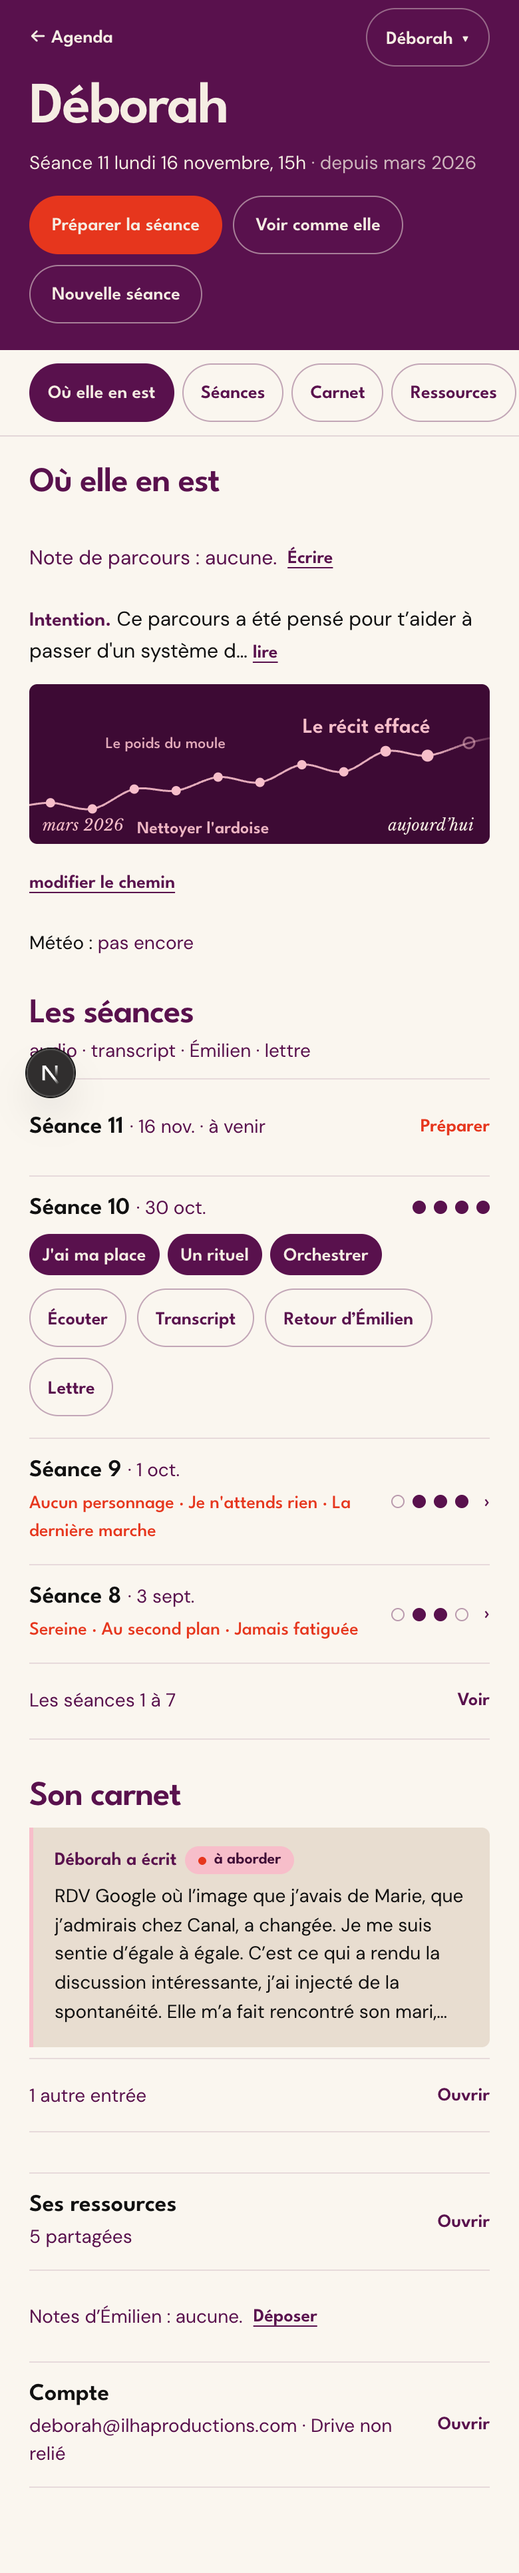
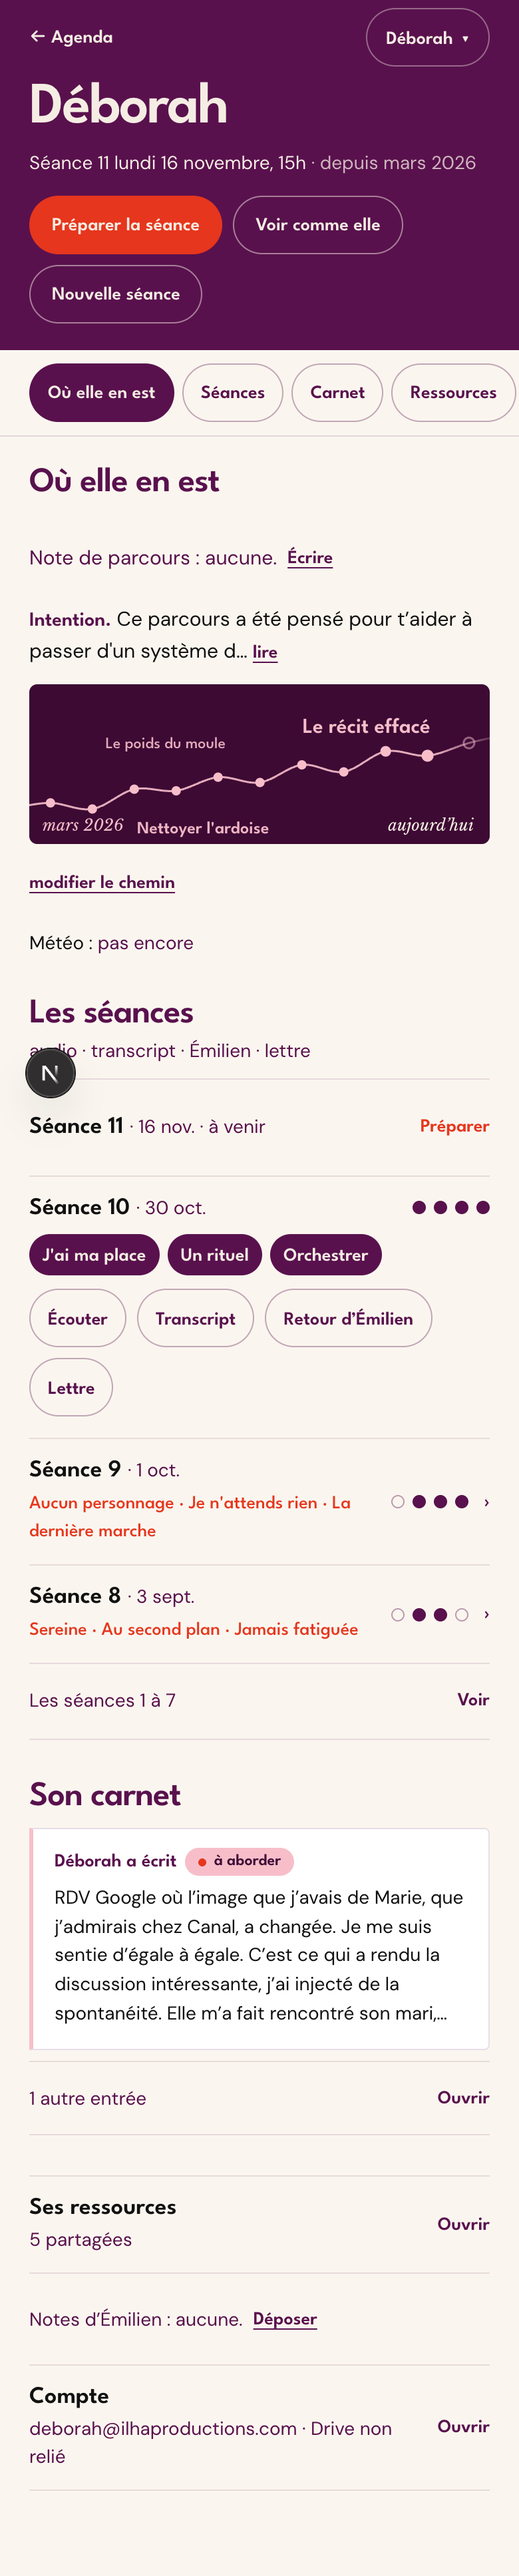
Couleur des blocs : cartes blanches bordées, beige réservé aux petits éléments (règle 0b)
Jetons --carte et --carte-filet, classe carte-blanche. Voix de la cliente, préparation,
lettre, transcript, météos, ressources, note de parcours, zones d'écriture, champs longs,
volet de sources, cartes de l'espace cliente et emails passent en blanc avec un filet,
sans ombre. Seuls aplats : retour d'Émilien et compteur du carnet. Captures refaites.

diff --git a/src/app/(coach)/coach/clientes/[id]/seances/[seanceId]/avant/page.tsx b/src/app/(coach)/coach/clientes/[id]/seances/[seanceId]/avant/page.tsx
@@ -188,7 +188,7 @@ export default async function AvantLaSeance({ params }: PageProps<"/coach/client
             {actions("hidden lg:flex")}
 
             {estCoach ? (
-              <section id="prepa" className="ancre carte bg-beige lg:sticky lg:top-5" style={place(0, [1, 2], "2 / 6")}>
+              <section id="prepa" className="ancre carte carte-papier lg:sticky lg:top-5" style={place(0, [1, 2], "2 / 6")}>
                 <div aria-hidden className="h-1 bg-rouge" />
                 <div className="px-[18px] pb-5 pt-4">
                   <Preparation seanceId={seance.id} initial={preparation} date={preparationModifiee ? jourEtMois(preparationModifiee) : null} />
@@ -232,7 +232,7 @@ export default async function AvantLaSeance({ params }: PageProps<"/coach/client
                             {i + 1}. {titrePropre(e.titre)}
                           </span>
                           {notes.length ? (
-                            <span className="rounded-r-[6px] border-l-[3px] border-rose bg-beige px-2.5 py-2 text-[15px] leading-[1.5]">{extrait(notes[0].contenu, 120)}</span>
+                            <span className="rounded-r-[6px] border-l-[3px] border-rose bg-beige px-2.5 py-2 text-[15px] leading-[1.5]"><span className="line-clamp-2">{extrait(notes[0].contenu, 110)}</span></span>
                           ) : (
                             <span className="text-[14px] text-violet/85">rien écrit</span>
                           )}
@@ -245,7 +245,7 @@ export default async function AvantLaSeance({ params }: PageProps<"/coach/client
                       <span aria-hidden className="mt-1 size-3 shrink-0 rounded-full border-[1.5px] border-rouge bg-rose" />
                       <div className="flex min-w-0 flex-1 flex-col gap-1.5">
                         <span className="font-titre text-[17px] font-semibold leading-[1.1]">En fin de lettre</span>
-                        <span className="rounded-r-[6px] border-l-[3px] border-rose bg-beige px-2.5 py-2 text-[15px] leading-[1.5]">{extrait(carnet.finDeLettre[0].contenu, 120)}</span>
+                        <span className="line-clamp-2 rounded-r-[6px] border-l-[3px] border-rose bg-beige px-2.5 py-2 text-[15px] leading-[1.5]">{extrait(carnet.finDeLettre[0].contenu, 120)}</span>
                       </div>
                     </li>
                   ) : null}
@@ -356,7 +356,7 @@ export default async function AvantLaSeance({ params }: PageProps<"/coach/client
             </section>
 
             {precedente ? (
-              <section id="transcript" className="ancre carte gap-3 bg-beige px-4 pb-3 pt-3.5" style={place(o, lettre ? [7, 13] : [7, 13], lettre ? "4" : "3")}>
+              <section id="transcript" className="ancre carte carte-papier gap-3 px-4 pb-3 pt-3.5" style={place(o, lettre ? [7, 13] : [7, 13], lettre ? "4" : "3")}>
                 <div className="flex items-baseline justify-between gap-3">
                   <h2 className="surtitre m-0 text-violet">Séance {precedente.numero} · le transcript</h2>
                   <span className="shrink-0 text-[14px] text-violet">{[dateReelle(precedente.date) && jourEtMoisCourt(precedente.date!), duree(precedente.audio_duree_sec)].filter(Boolean).join(" · ")}</span>

diff --git a/src/app/globals.css b/src/app/globals.css
@@ -13,6 +13,13 @@
   --rose: #f7beca; /* les touches sur violet */
   --encre: #111111;
 
+  /* Blocs (chantier fluidité, règle 0b) : le fond de page est le papier ; toute carte de lecture
+     ou d'écriture est blanche, bordée d'un filet, sans ombre. Le beige reste aux petits éléments
+     (« Pourquoi ça compte », bandeau d'une ligne, petit lecteur, pastilles, extraits courts).
+     Seuls aplats colorés : le retour d'Émilien (violet nuit) et le compteur du carnet (rose). */
+  --carte: #ffffff;
+  --carte-filet: rgb(89 17 77 / 0.14);
+
   /* Filets */
   --filet-violet: rgb(245 237 227 / 0.2);
   --filet-calendrier: rgb(245 237 227 / 0.35);
@@ -40,6 +47,8 @@
   --color-rouge: var(--rouge);
   --color-rose: var(--rose);
   --color-encre: var(--encre);
+  --color-carte: var(--carte);
+  --color-carte-filet: var(--carte-filet);
   --font-sans: "DM Sans Variable", system-ui, sans-serif;
   --font-titre: "League Spartan Variable", system-ui, sans-serif;
   --font-italique: "Libre Baskerville", Georgia, serif;
@@ -71,6 +80,17 @@ button {
 
 .papier-page {
   border-radius: 0;
+}
+
+/* La carte de lecture ou d'écriture : blanche, un filet, sans ombre.
+   Dans la couche « components » : un filet de couleur (border-l-rose…) passe devant. */
+@layer components {
+  .carte-blanche {
+    background-color: var(--carte);
+    border: 1px solid var(--carte-filet);
+    border-radius: var(--rayon-papier);
+    color: var(--encre);
+  }
 }
 
 /* ---------------- Typographie ---------------- */
@@ -382,7 +402,8 @@ button {
 }
 .champ-zone {
   width: 100%;
-  background: var(--beige);
+  background: var(--carte);
+  border: 1px solid var(--carte-filet);
   border-radius: 6px;
   outline: none;
   font-size: 16px;
@@ -502,14 +523,13 @@ details > summary::-webkit-details-marker {
   flex-direction: column;
   gap: 6px;
   padding: 12px 14px;
-  border: 1px solid rgb(89 17 77 / 0.18);
+  border: 1px solid var(--carte-filet);
   border-radius: 6px;
-  background: var(--papier);
+  background: var(--carte);
 }
 .objet-prive {
-  --fond-lisible: var(--beige);
-  border-color: transparent;
-  background: var(--beige);
+  border-color: var(--carte-filet);
+  background: var(--carte);
 }
 .provenance {
   align-self: flex-start;
@@ -597,8 +617,8 @@ details > summary::-webkit-details-marker {
   border-radius: 10px;
 }
 .carte-papier {
-  border: 1px solid rgb(89 17 77 / 0.22);
-  background: var(--papier);
+  border: 1px solid var(--carte-filet);
+  background: var(--carte);
 }
 .aller {
   display: inline-flex;

diff --git a/src/components/espace/GesteEcrire.tsx b/src/components/espace/GesteEcrire.tsx
@@ -86,7 +86,7 @@ export function GesteEcrire({
         placeholder={placeholder}
         aria-label="Écrire dans ton carnet"
         rows={4}
-        className={`w-full resize-y text-[16px] leading-[1.6] text-encre outline-none placeholder:text-encre/45 ${surPapier ? "min-h-[120px] bg-transparent" : "min-h-[90px] rounded-[var(--rayon-papier)] bg-papier-creux p-3.5"}`}
+        className={`w-full resize-y text-[16px] leading-[1.6] text-encre outline-none placeholder:text-encre/45 ${surPapier ? "min-h-[120px] bg-transparent" : "min-h-[90px] rounded-[var(--rayon-papier)] border border-carte-filet bg-carte p-3.5"}`}
       />
       {erreur ? (
         <p role="alert" className="text-[14px] text-rouge">
@@ -108,7 +108,7 @@ export function GesteEcrire({
 
   const feuille = ouvert ? (
     surPapier ? (
-      <div className="flex flex-col gap-1.5 rounded-[var(--rayon-papier)] bg-papier-creux px-[18px] py-4 text-encre">{zone}</div>
+      <div className="carte-blanche flex flex-col gap-1.5 px-[18px] py-4">{zone}</div>
     ) : (
       <Papier className="flex flex-col gap-2 p-[18px]">{zone}</Papier>
     )
@@ -116,7 +116,7 @@ export function GesteEcrire({
 
   if (note && !ouvert) {
     return (
-      <div className="flex flex-col gap-1.5 rounded-[var(--rayon-papier)] bg-papier-creux px-[18px] py-4 text-encre">
+      <div className="carte-blanche flex flex-col gap-1.5 rounded-l-none border-l-[3px] border-l-rose px-[18px] py-4">
         <div className="flex items-baseline justify-between gap-3">
           {avantOuverture(note.date) ? <span /> : <span className="font-italique text-[14px] italic text-violet">{jourEtMois(note.date)}</span>}
           <button type="button" onClick={ouvrir} className="geste-etendu relative text-[14px] text-violet underline">

diff --git a/src/components/coach/VueEquipe.tsx b/src/components/coach/VueEquipe.tsx
@@ -23,17 +23,17 @@ export function NoteParcours({ parcoursId, texte, signature }: { parcoursId: str
   }
   if (edition || !texte.trim()) {
     return (
-      <div className="rounded-[6px] bg-beige px-4 py-3.5">
+      <div className="carte-blanche px-4 py-3.5">
         <FormAction action={enregistrerNoteEquipe} bouton="Enregistrer">
           <input type="hidden" name="parcours_id" value={parcoursId} />
-          <textarea name="note" aria-label="Note de parcours" defaultValue={texte} placeholder="Où elle en est, en quelques lignes, pour Cloé et Émilien." className="champ-zone min-h-[120px] bg-papier" />
+          <textarea name="note" aria-label="Note de parcours" defaultValue={texte} placeholder="Où elle en est, en quelques lignes, pour Cloé et Émilien." className="champ-zone min-h-[120px]" />
           <span className="font-italique text-[14px] italic text-violet">jamais visible par elle</span>
         </FormAction>
       </div>
     );
   }
   return (
-    <div className="flex flex-col gap-2 rounded-[6px] bg-beige px-4 py-3.5">
+    <div className="carte-blanche flex flex-col gap-2 px-4 py-3.5">
       <TexteLecture>{texteStructure(texte)}</TexteLecture>
       <div className="flex items-baseline justify-between gap-3">
         <span className="font-italique text-[14px] italic text-violet">{signature ? `${signature} · ` : ""}jamais visible par elle</span>

diff --git a/src/components/coach/EditeurLettre.tsx b/src/components/coach/EditeurLettre.tsx
@@ -142,9 +142,9 @@ export function EditeurLettre({
           ) : null}
 
           {envoyee ? (
-            <div className="flex flex-col gap-2.5 rounded-[6px] bg-beige px-[18px] py-4">
+            <div className="carte-blanche flex flex-col gap-2.5 px-[18px] py-4">
               <p className="font-titre text-[18px] font-semibold text-violet">Envoyée. Préviens-la sur WhatsApp.</p>
-              <p className="papier px-3.5 py-3 text-[15px] leading-[1.5]">{whatsapp}</p>
+              <p className="rounded-[6px] border border-carte-filet px-3.5 py-3 text-[15px] leading-[1.5]">{whatsapp}</p>
               <div className="flex gap-[18px]">
                 <button
                   type="button"
@@ -189,7 +189,7 @@ export function EditeurLettre({
             ))}
           </div>
           {courante ? (
-            <div className="flex max-h-[220px] flex-col gap-1.5 overflow-y-auto rounded-[6px] bg-beige px-4 py-3.5 md:max-h-[70vh]">
+            <div className="carte-blanche flex max-h-[220px] flex-col gap-1.5 overflow-y-auto px-4 py-3.5 md:max-h-[70vh]">
               <p className="font-italique text-[14px] italic text-violet">{courante.titre}</p>
               <p className="whitespace-pre-line text-[14px] leading-[1.5]">{courante.texte}</p>
             </div>

diff --git a/src/emails/commun.tsx b/src/emails/commun.tsx
@@ -6,10 +6,10 @@ export function Enveloppe({ apercu, children }: { apercu: string; children: Reac
   return (
     <Html lang="fr">
       <Head />
-      <Body style={{ margin: 0, backgroundColor: "#E8DDD0", fontFamily: "Helvetica, Arial, sans-serif" }}>
+      <Body style={{ margin: 0, backgroundColor: "#FAF6EF", fontFamily: "Helvetica, Arial, sans-serif" }}>
         <div style={{ display: "none", maxHeight: 0, overflow: "hidden" }}>{apercu}</div>
         <Container style={{ maxWidth: 480, padding: "18px 12px 30px" }}>
-          <Section style={{ backgroundColor: "#FAF6EF", borderRadius: 4, padding: "30px 26px 34px" }}>
+          <Section style={{ backgroundColor: "#FFFFFF", border: "1px solid rgba(89,17,77,.14)", borderRadius: 4, padding: "30px 26px 34px" }}>
             <Img src={`${SITE}/marque/logo-violet.png`} alt="Blocages & Intuition" height="36" />
             {children}
           </Section>

diff --git a/src/components/coach/VoixCliente.tsx b/src/components/coach/VoixCliente.tsx
@@ -4,7 +4,7 @@ import { Marque } from "@/components/coach/base";
 // « Déborah a écrit » et la date en tête, texte droit). Jamais confondue avec Cloé ni Émilien.
 export function VoixCliente({ prenom, date, texte, aAborder = false, compact = false, nouveau = false }: { prenom: string; date: string | null; texte: string; aAborder?: boolean; compact?: boolean; nouveau?: boolean }) {
   return (
-    <div className="voix-cliente flex flex-col gap-1.5 rounded-r-[6px] border-l-[3px] border-rose bg-beige px-4 pb-4 pt-3.5">
+    <div className="voix-cliente flex flex-col gap-1.5 carte-blanche rounded-l-none border-l-[3px] border-l-rose px-4 pb-4 pt-3.5">
       <p className="m-0 flex flex-wrap items-baseline gap-x-1.5 font-titre text-[14px] font-semibold text-violet">
         <span>{prenom} a écrit</span>
         {date ? <span className="font-sans font-normal opacity-85">· {date}</span> : null}

diff --git a/src/components/coach/Preparation.tsx b/src/components/coach/Preparation.tsx
@@ -58,7 +58,7 @@ export function Preparation({ seanceId, initial, date }: { seanceId: string; ini
           {/* Téléphone : le début, puis « Lire en entier » dans la liseuse. Ordinateur : la colonne défile. */}
           <div className="relative max-h-[22rem] overflow-hidden lg:max-h-[calc(100vh-190px)] lg:overflow-y-auto">
             <TexteLecture className="text-[16px]">{texte}</TexteLecture>
-            <div aria-hidden className="pointer-events-none absolute inset-x-0 bottom-0 h-20 bg-gradient-to-t from-beige to-transparent lg:hidden" />
+            <div aria-hidden className="pointer-events-none absolute inset-x-0 bottom-0 h-20 bg-gradient-to-t from-carte to-transparent lg:hidden" />
           </div>
           {texte === initial ? (
             <OuvrirLecture cle="prepa" className="self-start text-violet lg:hidden">

diff --git a/src/components/coach/MotsStation.tsx b/src/components/coach/MotsStation.tsx
@@ -13,7 +13,7 @@ export function MotsStation({ id, valides, station, proposes, stationProposee, p
   const aPropos = mots.length > 0 || Boolean(nom);
 
   return (
-    <div className={`mt-2.5 flex flex-col gap-2.5 border-l-[3px] bg-beige px-4 py-3.5 ${estValide ? "border-violet" : "border-rouge"}`}>
+    <div className={`carte-blanche mt-2.5 flex flex-col gap-2.5 rounded-l-none border-l-[3px] px-4 py-3.5 ${estValide ? "border-l-violet" : "border-l-rouge"}`}>
       <p className={`font-titre text-[14px] font-semibold ${estValide ? "text-violet" : "text-rouge"}`}>{estValide ? `Validé · sur le chemin de ${prenom}` : aPropos ? "Proposé après lecture du transcript" : "Les mots et la station"}</p>
       {modif || !aPropos ? (
         <FormAction action={validerMots} bouton="Valider" rouge>

diff --git a/src/app/(coach)/coach/clientes/[id]/dater/page.tsx b/src/app/(coach)/coach/clientes/[id]/dater/page.tsx
@@ -73,7 +73,7 @@ export default async function DaterEtNommer({ params, searchParams }: PageProps<
           <h1 className="m-0 font-titre text-[34px] font-semibold leading-none tracking-[-0.03em] text-violet">Séance {s.numero}</h1>
           {q.erreur ? <p className="m-0 text-[15px] text-rouge">Ça n’a pas été enregistré. Réessaie dans un instant.</p> : null}
           {souvenir || transcript ? (
-            <div className="flex flex-col gap-1 rounded-[6px] bg-beige px-3.5 py-3">
+            <div className="carte-blanche flex flex-col gap-1 px-3.5 py-3">
               {souvenir ? (
                 <p className="m-0 text-[15px] leading-[1.55]">
                   <span className="font-titre font-semibold text-violet">Pour te souvenir. </span>

diff --git a/src/app/(cliente)/espace/lettre/[id]/page.tsx b/src/app/(cliente)/espace/lettre/[id]/page.tsx
@@ -56,7 +56,7 @@ export default async function PageLettre({ params }: PageProps<"/espace/lettre/[
 
         {sommaire.length ? (
           <>
-            <nav aria-label="Les exercices de la lettre" className="mt-7 rounded-[8px] bg-papier-creux px-4 py-1.5 md:mt-[30px] md:px-[18px]">
+            <nav aria-label="Les exercices de la lettre" className="carte-blanche mt-7 px-4 py-1.5 md:mt-[30px] md:px-[18px]">
               {sommaire.map((x, i) => (
                 <a key={x.slug} href={`#ex-${i + 1}`} className={`flex min-h-[48px] items-center justify-between gap-3 font-titre text-[17px] font-semibold text-encre md:text-[18px] ${i < sommaire.length - 1 ? "border-b border-[var(--filet-papier)]" : ""}`}>
                   <span>

diff --git a/src/components/coach/Bibliotheque.tsx b/src/components/coach/Bibliotheque.tsx
@@ -63,7 +63,7 @@ export function ColleUnLien() {
           onPaste={(e) => lire(e.clipboardData.getData("text"))}
           onKeyDown={(e) => e.key === "Enter" && lire(lien)}
           onBlur={() => !infos && lire(lien)}
-          className="min-h-[48px] w-full rounded-[6px] bg-beige px-3.5 py-3 text-[16px] text-encre outline-none"
+          className="carte-blanche min-h-[48px] w-full px-3.5 py-3 text-[16px] text-encre outline-none"
         />
       </label>
       {message ? <p className="text-[14px] text-violet">{message}</p> : <p className="text-[14px] text-violet/70">Image, titre, auteur et description sont récupérés. Tu corriges la description, tu enregistres.</p>}
